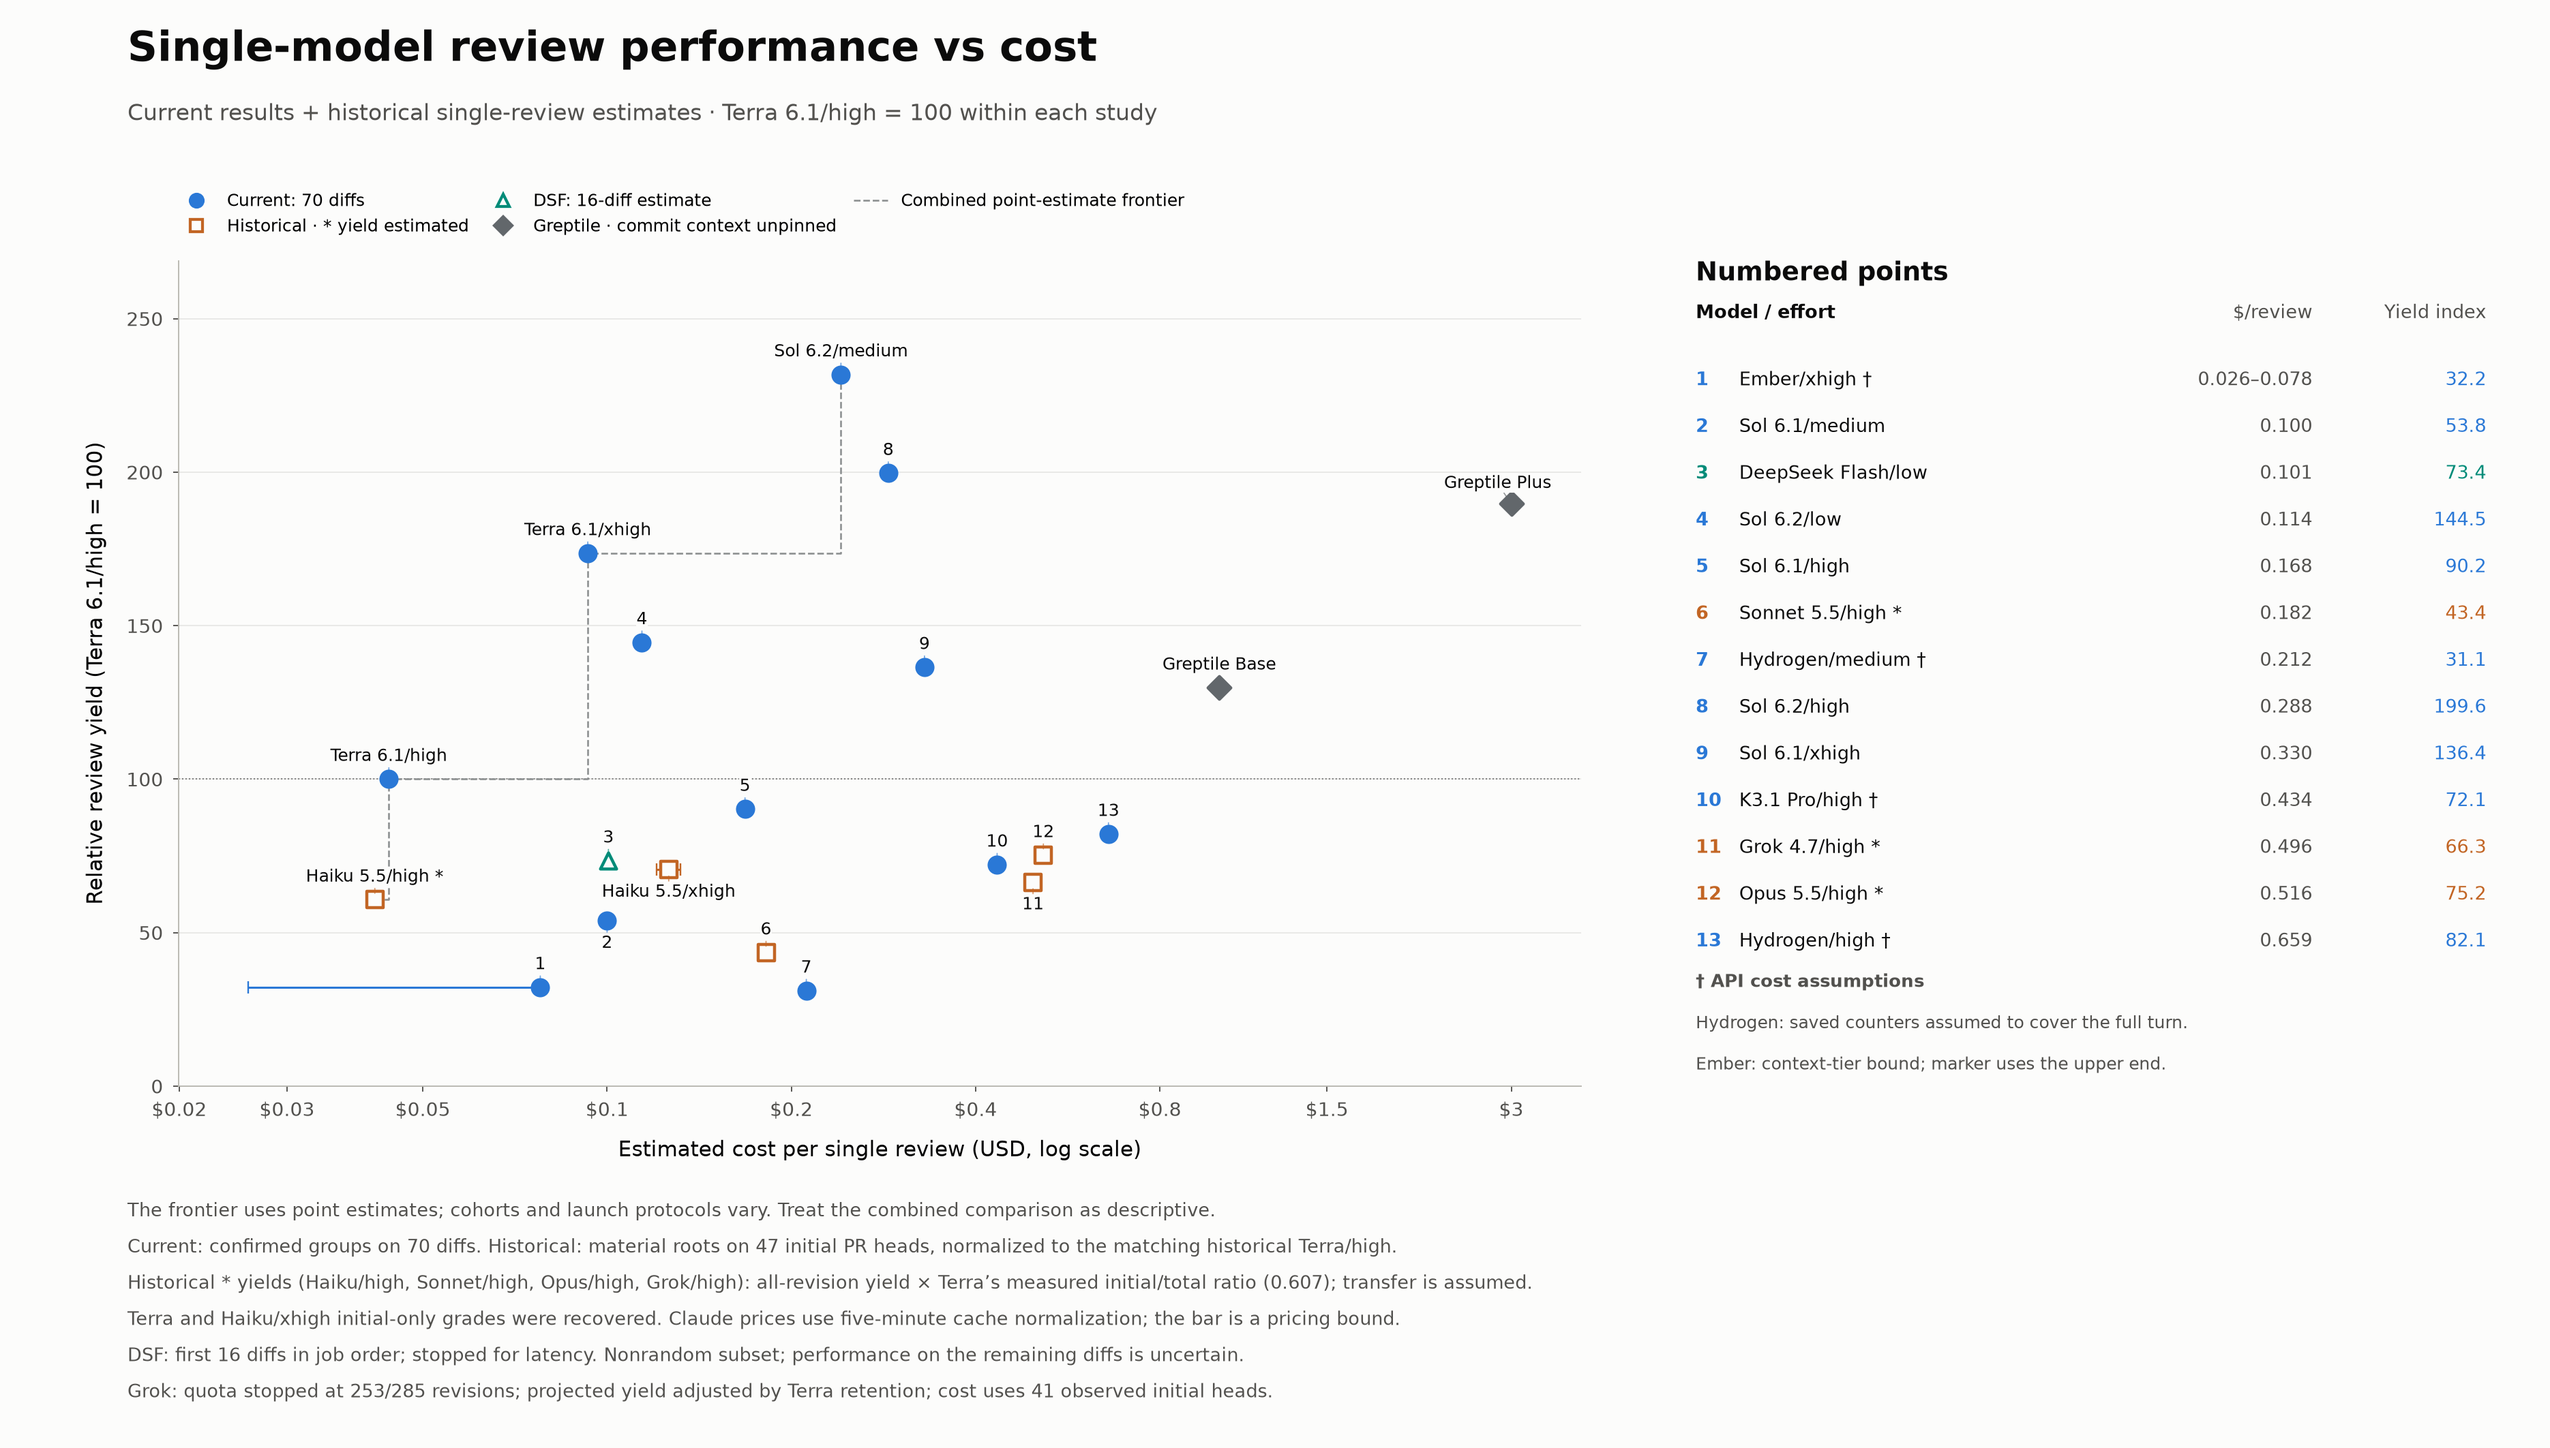
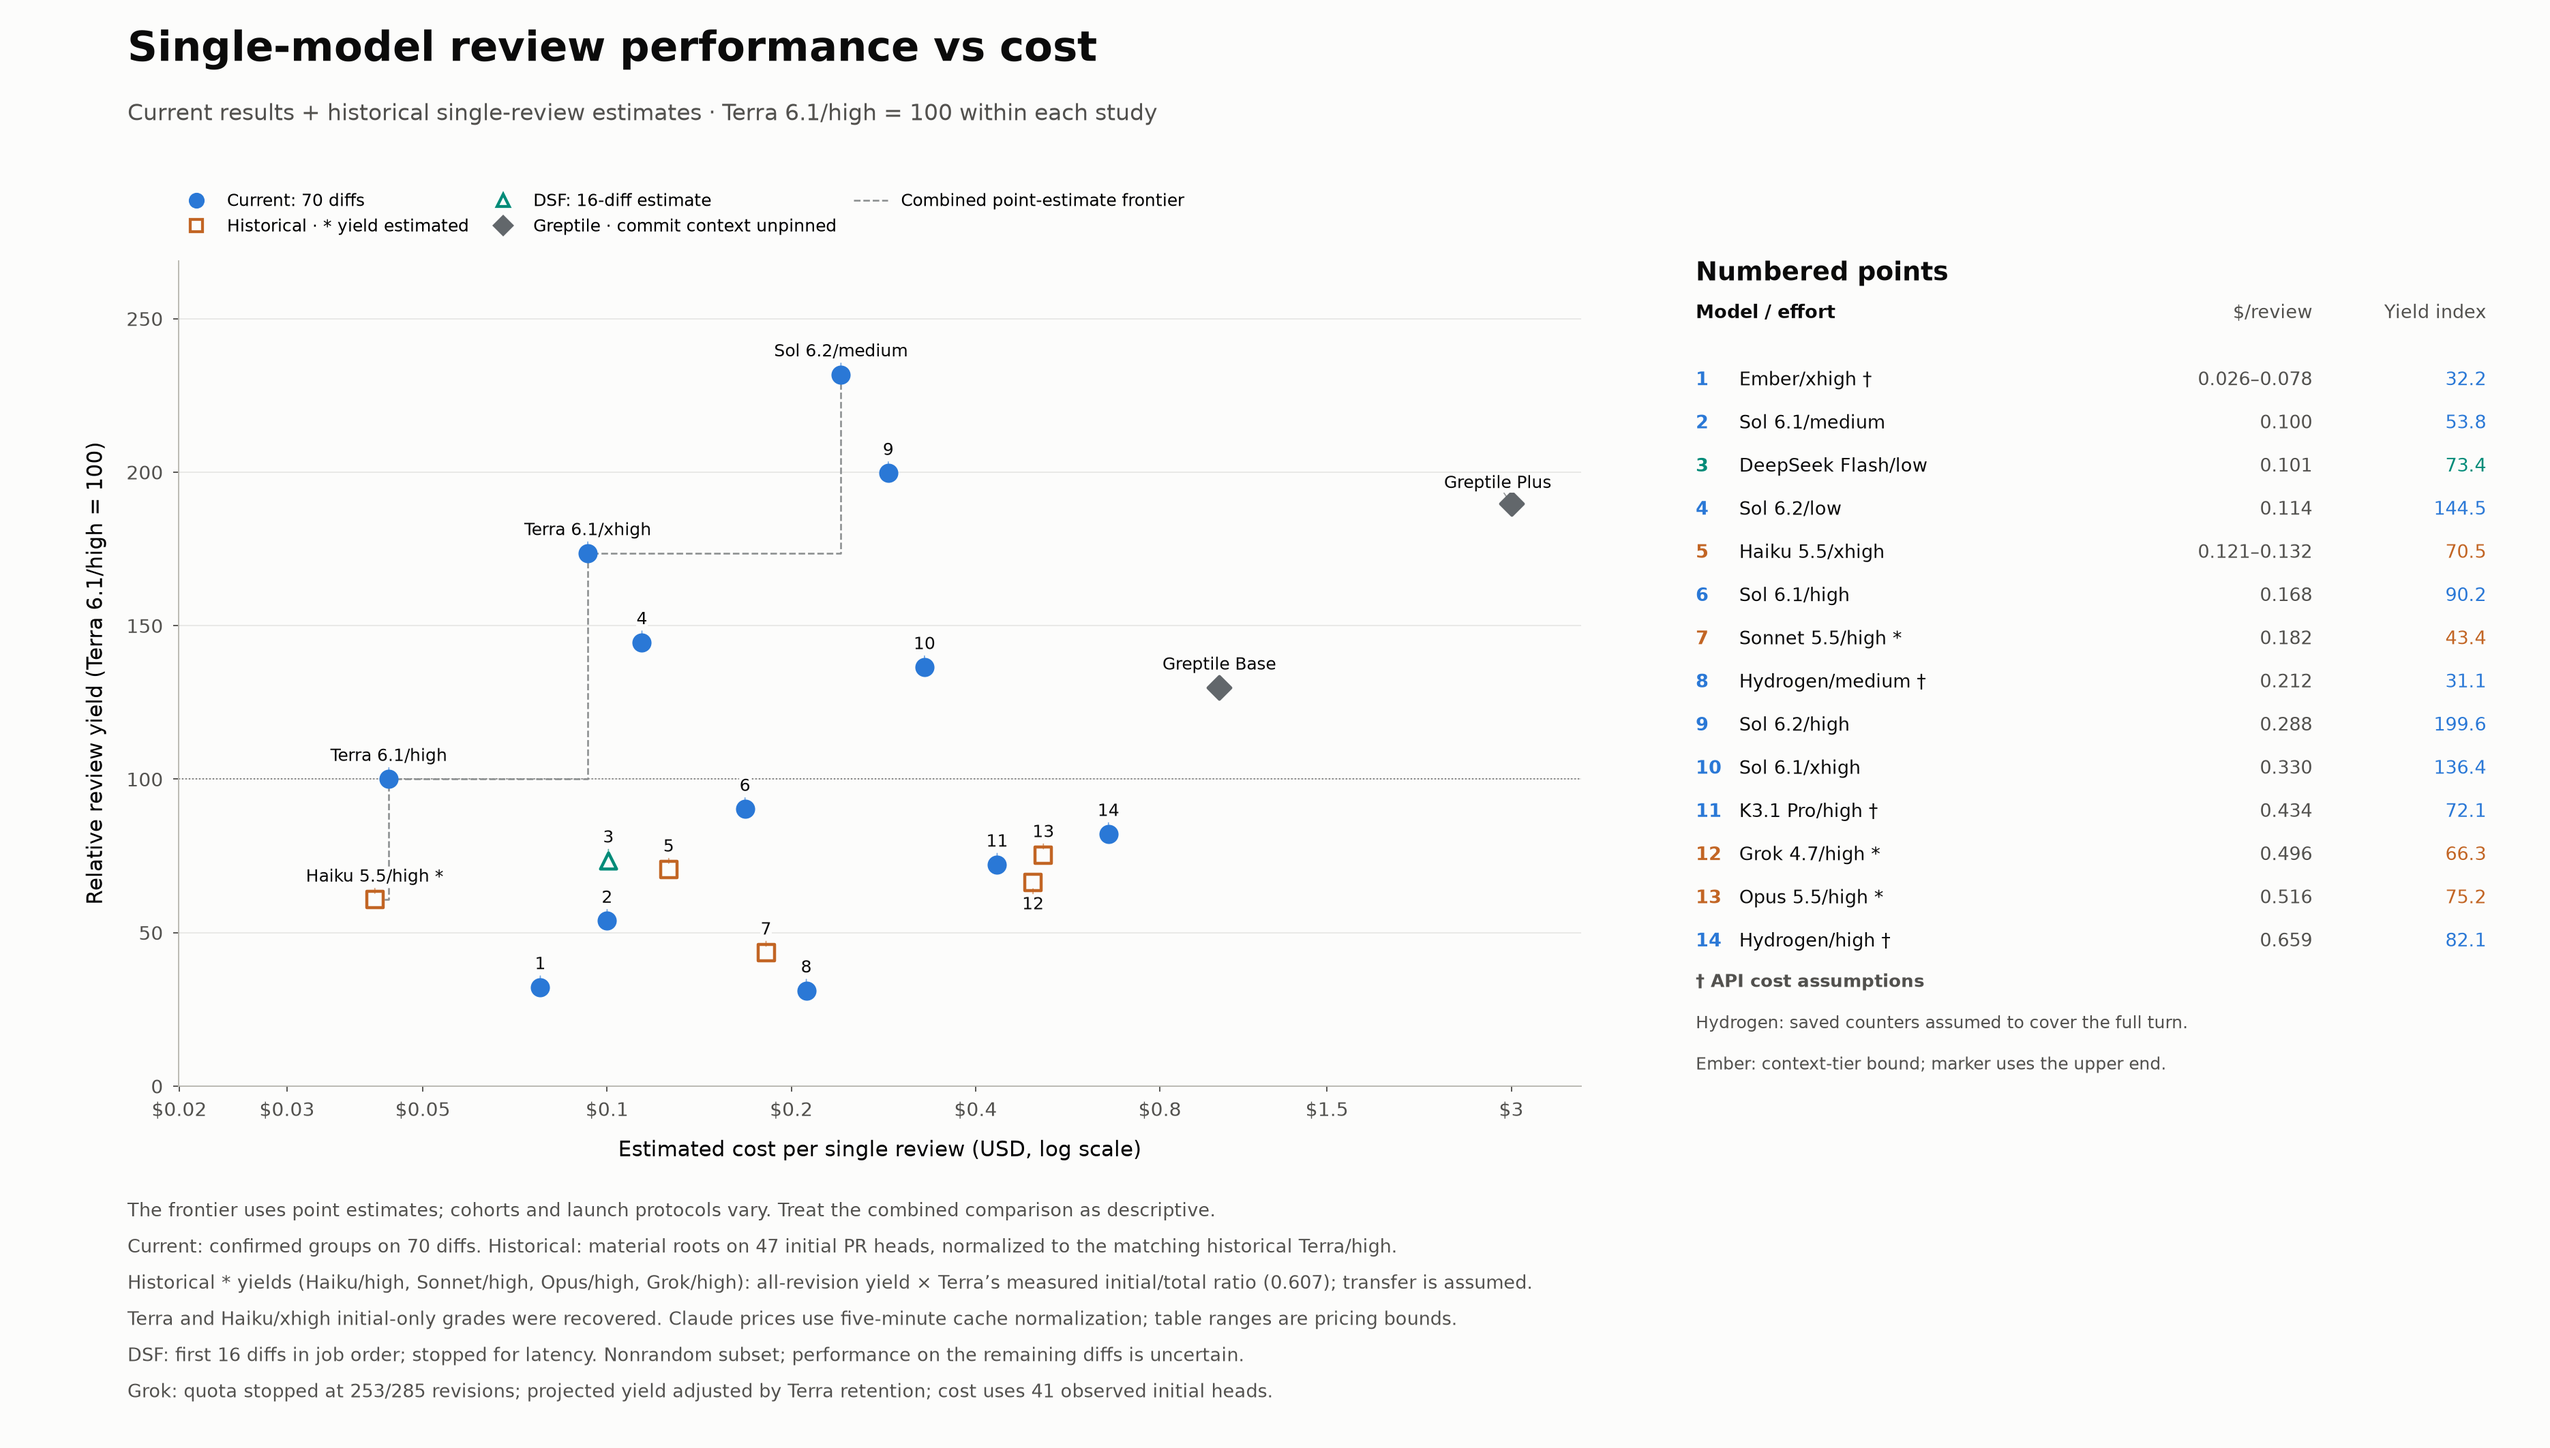
Put Haiku xhigh in the key and remove plot pricing bars

diff --git a/.agents/evals/review-arms/results/sol-62-high/README.md b/.agents/evals/review-arms/results/sol-62-high/README.md
@@ -71,8 +71,10 @@ plots retain the stated usage-scope and context-tier assumptions.
 The chart retains the requested shared axes: estimated USD per single review
 and yield relative to Terra 6.1/high = 100 within each source study. The
 historical Terra point is omitted; its normalization denominator is retained.
-Frontier models, both Haiku efforts and Greptile solo references are named
-directly; other points use numbers in the key. Kimi is labeled `K3.1 Pro/high`.
+Frontier models and Greptile solo references are named directly and stay out
+of the numbered key. Other points, including **Haiku/xhigh (point 5)**, use
+numbers in the key. Haiku/high keeps its direct frontier label. Cost bounds
+are shown as ranges in the key, with no horizontal pricing bars on the plot. Kimi is labeled `K3.1 Pro/high`.
 It has no mark on either combination frontier, so this relabel changes the
 visible single-model chart only. Sol 6.2 high is below medium on all-confirmed yield
 while costing more, so it does not join that point-estimate frontier.
@@ -84,7 +86,7 @@ and [the medium + high table](pareto-sev-high-medium.csv), freshly judged in
 Those are different-corpus estimates: Haiku/high, Sonnet/high and Opus/high
 initial yields assume Terra's 88/145 initial-to-workflow retention transfers
 to those arms. Haiku/xhigh uses recovered initial-only grades and a pricing
-bound; both Haiku efforts are labeled directly on the chart. No historical Claude
+bound. Haiku/high is named on the plot; Haiku/xhigh is listed in the key. No historical Claude
 reviewer was rerun here. The combined frontier is descriptive across studies
 and launch protocols, rather than a controlled ranking.
 
